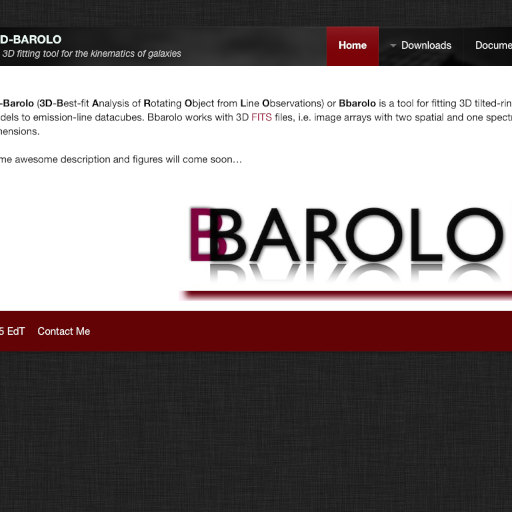
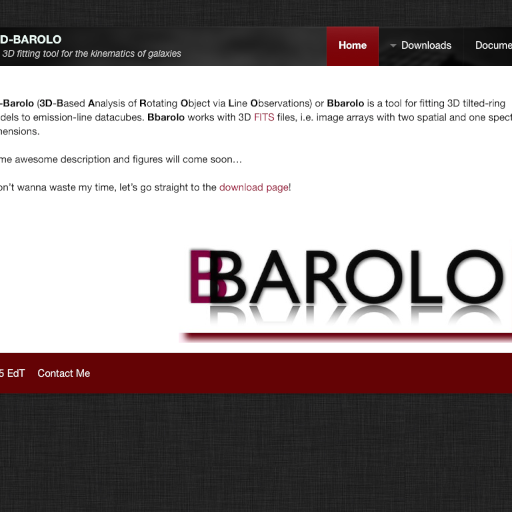
Bbarolo pages

Changed region(s): [[0.0, 0.3438, 1.0, 0.7812], [0.125, 0.1875, 1.0, 0.25]]

diff --git a/BBAROLO.rw6/QuickLook/Preview.html b/BBAROLO.rw6/QuickLook/Preview.html
@@ -58,7 +58,7 @@
 				</div>
 				<section id="container" class="theme">
 					<section id="content" class="theme">
-						<div id="push"><span style="color:#000000;font-weight:bold; ">3D-Barolo</span><span style="color:#000000;"> (</span><span style="color:#000000;font-weight:bold; ">3D</span><span style="color:#000000;">-</span><span style="color:#000000;font-weight:bold; ">B</span><span style="color:#000000;">est-fit </span><span style="color:#000000;font-weight:bold; ">A</span><span style="color:#000000;">nalysis of </span><span style="color:#000000;font-weight:bold; ">R</span><span style="color:#000000;">otating </span><span style="color:#000000;font-weight:bold; ">O</span><span style="color:#000000;">bject from </span><span style="color:#000000;font-weight:bold; ">L</span><span style="color:#000000;">ine </span><span style="color:#000000;font-weight:bold; ">O</span><span style="color:#000000;">bservations) or </span><span style="color:#000000;font-weight:bold; ">Bbarolo</span><span style="color:#000000;"> is a tool for fitting 3D tilted-ring models to emission-line datacubes. Bbarolo works with 3D <a href="http://fits.gsfc.nasa.gov/">FITS</a> files, i.e. image arrays with two spatial and one spectral dimensions.<br /><br />Some awesome description and figures will come soon&hellip; <br /><br /><br /></span><div class="image-right"><img class="imageStyle" alt="Bbarolo" src="files/bbarolo-2.jpg" width="516" height="155" /></div></div>
+						<div id="push"><span style="color:#000000;font-weight:bold; ">3D-Barolo</span><span style="color:#000000;"> (</span><span style="color:#000000;font-weight:bold; ">3D</span><span style="color:#000000;">-</span><span style="color:#000000;font-weight:bold; ">B</span><span style="color:#000000;">ased </span><span style="color:#000000;font-weight:bold; ">A</span><span style="color:#000000;">nalysis of </span><span style="color:#000000;font-weight:bold; ">R</span><span style="color:#000000;">otating </span><span style="color:#000000;font-weight:bold; ">O</span><span style="color:#000000;">bject via </span><span style="color:#000000;font-weight:bold; ">L</span><span style="color:#000000;">ine </span><span style="color:#000000;font-weight:bold; ">O</span><span style="color:#000000;">bservations) or </span><span style="color:#000000;font-weight:bold; ">Bbarolo</span><span style="color:#000000;"> is a tool for fitting 3D tilted-ring models to emission-line datacubes. </span><span style="color:#000000;font-weight:bold; ">Bbarolo</span><span style="color:#000000;"> works with 3D <a href="http://fits.gsfc.nasa.gov/">FITS</a> files, i.e. image arrays with two spatial and one spectral dimensions.<br /><br />Some awesome description and figures will come soon&hellip; <br /><br />I don&rsquo;t wanna waste my time, let&rsquo;s go straight to the </span><span style="color:#000000;"><a href="downloads/" rel="" title="Downloads">download page</a></span><span style="color:#000000;">!<br /><br /><br /><br /></span><div class="image-right"><img class="imageStyle" alt="Bbarolo" src="files/bbarolo-2.jpg" width="516" height="155" /></div></div>
 					</section>
 					<aside class="theme">
 						<h2 id="sideTitle"></h2>

diff --git a/index.html b/index.html
@@ -58,7 +58,7 @@
 				</div>
 				<section id="container" class="theme">
 					<section id="content" class="theme">
-						<div id="push"><span style="color:#000000;font-weight:bold; ">3D-Barolo</span><span style="color:#000000;"> (</span><span style="color:#000000;font-weight:bold; ">3D</span><span style="color:#000000;">-</span><span style="color:#000000;font-weight:bold; ">B</span><span style="color:#000000;">est-fit </span><span style="color:#000000;font-weight:bold; ">A</span><span style="color:#000000;">nalysis of </span><span style="color:#000000;font-weight:bold; ">R</span><span style="color:#000000;">otating </span><span style="color:#000000;font-weight:bold; ">O</span><span style="color:#000000;">bject from </span><span style="color:#000000;font-weight:bold; ">L</span><span style="color:#000000;">ine </span><span style="color:#000000;font-weight:bold; ">O</span><span style="color:#000000;">bservations) or </span><span style="color:#000000;font-weight:bold; ">Bbarolo</span><span style="color:#000000;"> is a tool for fitting 3D tilted-ring models to emission-line datacubes. Bbarolo works with 3D <a href="http://fits.gsfc.nasa.gov/">FITS</a> files, i.e. image arrays with two spatial and one spectral dimensions.<br /><br />Some awesome description and figures will come soon&hellip; <br /><br /><br /></span><div class="image-right"><img class="imageStyle" alt="Bbarolo" src="files/bbarolo-2.jpg" width="516" height="155" /></div></div>
+						<div id="push"><span style="color:#000000;font-weight:bold; ">3D-Barolo</span><span style="color:#000000;"> (</span><span style="color:#000000;font-weight:bold; ">3D</span><span style="color:#000000;">-</span><span style="color:#000000;font-weight:bold; ">B</span><span style="color:#000000;">ased </span><span style="color:#000000;font-weight:bold; ">A</span><span style="color:#000000;">nalysis of </span><span style="color:#000000;font-weight:bold; ">R</span><span style="color:#000000;">otating </span><span style="color:#000000;font-weight:bold; ">O</span><span style="color:#000000;">bject via </span><span style="color:#000000;font-weight:bold; ">L</span><span style="color:#000000;">ine </span><span style="color:#000000;font-weight:bold; ">O</span><span style="color:#000000;">bservations) or </span><span style="color:#000000;font-weight:bold; ">Bbarolo</span><span style="color:#000000;"> is a tool for fitting 3D tilted-ring models to emission-line datacubes. </span><span style="color:#000000;font-weight:bold; ">Bbarolo</span><span style="color:#000000;"> works with 3D <a href="http://fits.gsfc.nasa.gov/">FITS</a> files, i.e. image arrays with two spatial and one spectral dimensions.<br /><br />Some awesome description and figures will come soon&hellip; <br /><br />I don&rsquo;t wanna waste my time, let&rsquo;s go straight to the </span><span style="color:#000000;"><a href="downloads/" rel="" title="Downloads">download page</a></span><span style="color:#000000;">!<br /><br /><br /><br /></span><div class="image-right"><img class="imageStyle" alt="Bbarolo" src="files/bbarolo-2.jpg" width="516" height="155" /></div></div>
 					</section>
 					<aside class="theme">
 						<h2 id="sideTitle"></h2>

diff --git a/downloads/binaries/index.html b/downloads/binaries/index.html
@@ -60,7 +60,7 @@
 					<section id="content" class="theme">
 						<div id="push"><div class="filesharing-description"><h2>Download the binaries</h2><br />Here you can download the pre-compiled binaries of latest <strong>Bbarolo </strong>version. <br />Downloads includes both the GUI (experimental) and the Command Line executable. For the Mac application, the latter can be found in the package contents.<br /><br /><u>NOTE</u>: Although all the required libraries are already in the binaries, you still need to have installed Gnuplot and Python with Astropy (> 1.0) to get all the outputs.<br /><br /><br /></div><div class="filesharing-item">
 <div class="filesharing-item-title">
-<a href="https://github.com/editeodoro/Bbarolo/releases/download/1.0/Bbarolo_MacOS_Lion.zip">Mac OS X  &ge;10.7</a>
+<a href="https://github.com/editeodoro/Bbarolo/releases/download/1.0/Bbarolo_MacOS_Lion.zip">Mac OS X 10.7 and later</a>
 </div>
 <div class="filesharing-item-description">
 GUI and Command Line for OS X Lion or later</div>
